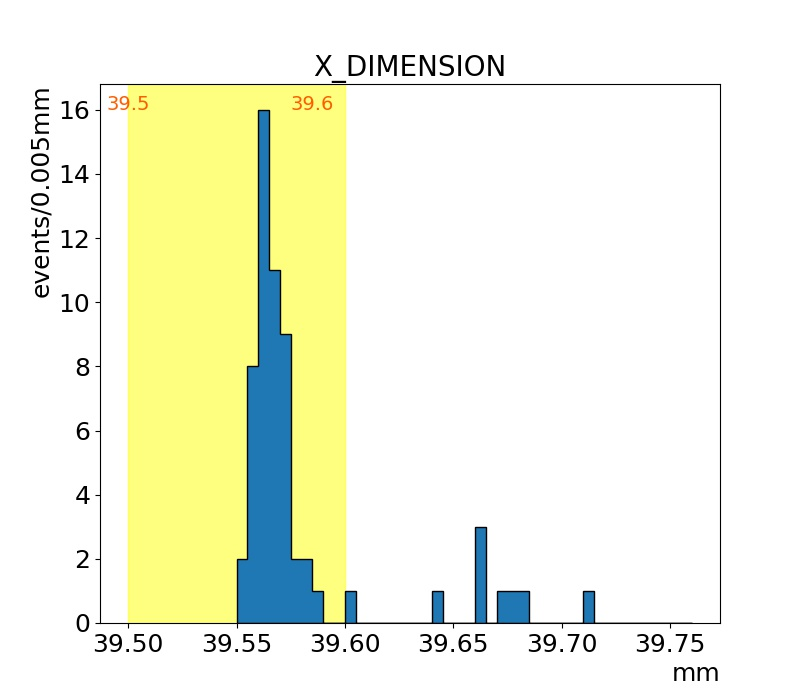
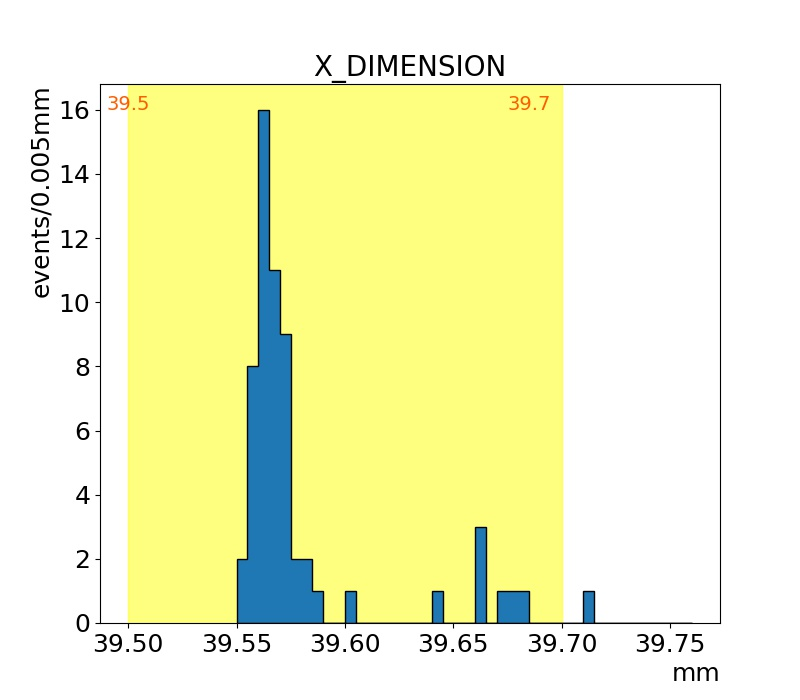
json pcb

Changed region(s): [[0.375, 0.12, 0.7188, 0.9]]

diff --git a/work/macro/validateSquare.py b/work/macro/validateSquare.py
@@ -1,0 +1,285 @@
+#!/usr/bin/env python3
+import os
+import pickle
+import tkinter as tk
+from tkinter import ttk
+from PIL import ImageGrab
+import numpy as np
+import pandas as pd
+import pmm
+import re
+import time
+import argparse
+import matplotlib.pyplot as plt
+    
+def hist(df, name, arg, AF):
+    # define histgram name
+    histname = name + '_' + arg
+
+    binrange = 0.01
+
+    # define matplotlib figure
+    fig = plt.figure(figsize=(8,7))
+    ax = fig.add_subplot(1,1,1)
+
+    # paint required area
+    #ax.axvspan(require[0], require[1], color='yellow', alpha=0.5)
+      
+    # fill data
+    bins = np.arange(np.nanmin(df[histname].to_list()),np.nanmax(df[histname].to_list()), binrange)
+    n = ax.hist(df[histname], bins=bins, alpha=1, histtype="stepfilled",edgecolor='black')
+
+    # show text of required area
+    #ax.text(require[0]-2*binrange, np.amax(n[0]), f'{require[0]}',
+     #       color='#ff5d00',size=14)
+    #ax.text(require[1]-5*binrange, np.amax(n[0]), f'{require[1]}',
+     #       color='#ff5d00',size=14)
+
+    # set hist style
+    plt.tick_params(labelsize=18)
+    ax.set_title(f'{AF} {name}_{arg}',fontsize=20)
+    ax.set_xlabel('mm',fontsize=18,loc='right') 
+    ax.set_ylabel(f'events/{binrange}mm',fontsize=18,loc='top')
+
+    plt.savefig(f'resultsHist/validateSQ/{AF}_{histname}_hist.jpg')  #save as jpeg
+
+    plt.show()
+
+class MainWindow(ttk.Frame):
+    def __init__(self, root):
+        super().__init__(root)
+        self.root = root
+        self.pack(side=tk.TOP, fill=tk.BOTH, expand=True)
+        
+    def buildGui(self,exdf):
+        def drawLine(self,x0,y0,r1,r2,color):
+            x1 = x0/2 + r1[0]*15
+            x2 = x0/2 + r2[0]*15
+            y1 = y0/2 - r1[1]*15
+            y2 = y0/2 - r2[1]*15
+            canvas.create_line(x1,y1,x2,y2, width=2, fill=color)
+        def drawLineX(self,x0,y0,val,w,color):
+            line = x0/2 + val*15
+            canvas.create_line(line, y0/2+w, line, y0/2-w, width=2, fill=color)
+        def drawLineY(self,x0,y0,val,w,color):
+            line = y0/2 - val*15
+            canvas.create_line(x0/2-w, line, x0/2+w, line, width=2, fill=color)
+        def drawOval(self,x0,y0,valx,valy,r,color):
+            x=x0/2+valx*15
+            y=y0/2-valy*15
+            canvas.create_oval(x-r,y-r,x+r,y+r, fill=color)
+        def drawSquare(self,p,x0,y0,valx,valy,dx,dy,color):
+            x=x0/2+valx*15
+            y=y0/2-valy*15
+        
+        x0, y0 = 900, 900
+        canvas = tk.Canvas(self, width=x0, height=y0,bg='white',bd=10,relief='flat')
+        canvas.pack(side=tk.TOP, fill=tk.BOTH, expand=True)
+        canvas.create_line(x0/2, 20, x0/2, y0,width=2,arrow="first")
+        canvas.create_line(0, y0/2, x0-20, y0/2,width=2,arrow="last")
+
+        taglist = ['FmarkTL', 'FmarkTR', 'FmarkBL', 'FmarkBR']
+        TL = coordinate(exdf, 'FmarkTL')
+        TR = coordinate(exdf, 'FmarkTR')
+        BL = coordinate(exdf, 'FmarkBL')
+        BR = coordinate(exdf, 'FmarkBR')
+        
+        # calculate distances 
+        TLTR = calculateDistance(exdf, 'FmarkTL','FmarkTR')
+        TRBR = calculateDistance(exdf, 'FmarkTR','FmarkBR')
+        BLBR = calculateDistance(exdf, 'FmarkBL','FmarkBR')
+        TLBL = calculateDistance(exdf, 'FmarkTL','FmarkBL')
+        # calculate angles
+        angleBL = calculateAngle(exdf, 'FmarkTL','FmarkBL','FmarkBR')
+        angleTR = calculateAngle(exdf, 'FmarkTL','FmarkTR','FmarkBR')
+
+        # draw fmarks
+        drawOval(self,x0,y0,TL[0],TL[1],5,"#ff7f00")
+        drawOval(self,x0,y0,TR[0],TR[1],5,"#ff7f00")
+        drawOval(self,x0,y0,BL[0],BL[1],5,"#ff7f00")
+        drawOval(self,x0,y0,BR[0],BR[1],5,"#ff7f00")
+        # draw line connectiong Fmarks
+        drawLine(self,x0,y0,TL,TR,"#00a0a0")  
+        drawLine(self,x0,y0,TL,BL,"#00a0a0")
+        drawLine(self,x0,y0,TR,BR,"#00a0a0")
+        drawLine(self,x0,y0,BL,BR,"#00a0a0")
+        
+        # write distance and angle on canvas
+        canvas.create_text(350,140,text=f'{TLTR:.4g}',fill="#00a0a0",
+                           font=("",16))  # TL to TR
+        canvas.create_text(350,750,text=f'{BLBR:.4g}',fill="#00a0a0",
+                           font=("",16))  # BL to BR
+        canvas.create_text(150,350,text=f'{TLBL:.4g}',angle=90,
+                           fill="#00a0a0",font=("",16))  # TL to BL
+        canvas.create_text(750,350,text=f'{TRBR:.4g}',angle=90,
+                           fill="#00a0a0",font=("",16))  # TR to BR
+        canvas.create_text(220,710,text=f'{angleBL:.4g}',font=("",16))  # TL-BL-BR
+        canvas.create_text(680,180,text=f'{angleTR:.4g}',font=("",16))  # TL-TR-BR    
+             
+def coordinate(exdf,tagname):
+    query = exdf.query(f'tags == "{tagname}"').index[0]
+    x = exdf.loc[query,'detect_x']
+    y = exdf.loc[query,'detect_y']
+    return x,y
+
+def calculateDistance(exdf, name1, name2):
+    r1 = coordinate(exdf, name1)
+    r2 = coordinate(exdf, name2)
+    dx = r1[0]-r2[0]
+    dy = r1[1]-r2[1]
+    distance = np.sqrt(dx**2+dy**2)
+    return distance
+
+def calculateAngle(exdf, name1, name2, name3):
+    r1 = np.array(coordinate(exdf, name1))
+    r2 = np.array(coordinate(exdf, name2))
+    r3 = np.array(coordinate(exdf, name3))
+    r12 = r2 - r1
+    r23 = r3 - r2
+    costheta = np.dot(r12,r23)/(np.linalg.norm(r12)*np.linalg.norm(r23))
+    radian= np.arccos(np.clip(costheta, -1.0, 1.0))
+    angle = np.degrees(radian)
+    return angle
+
+def badSN(df):
+    rows = ['Qty', 'min', 'max', 'mean', 'std', 'requirement min', 'requirement max']
+    summary = pd.DataFrame(index=rows)
+    ngSN = pd.DataFrame(columns=['serial_num'])
+    
+    names = ['range_T','range_B','range_L','range_R','angle_BL','angle_TR']
+    for name in names:
+        std = np.nanstd(df[name].to_list())    # get data value std deviation
+        mean = np.nanmean(df[name].to_list())  # get data value mean
+        minimum = np.nanmin(df[name].to_list())  # get data value min
+        maximum = np.nanmax(df[name].to_list())  # get data value max
+        quantity = df[name].count()
+        if 'angle' in name:
+            reqmin = 89.9
+            reqmax = 90.1
+        if 'range' in name:
+            reqmin = mean - 2*std
+            reqmax = mean + 2*std
+            
+        values = pd.DataFrame([quantity, minimum, maximum, mean, std, reqmin, reqmax],index=rows,columns=[name])
+        summary = pd.concat([summary, values],axis=1)
+    
+        filterd_min = df[df[name] < reqmin]
+        filterd_max = df[df[name] > reqmax]
+        ex = pd.concat([filterd_min[['serial_num', name]],
+                        filterd_max[['serial_num', name]]])
+        ngSN = pd.merge(ngSN, ex, on='serial_num',how='outer')
+    return summary, ngSN
+ 
+def valSquare(df, AF):
+    listT,listB,listL,listR = [],[],[],[]
+    listBL,listTR = [],[]
+    listSN = []
+    # group analysis data by tags
+    grouptag_ana = df.groupby(['serial_number'])
+    snList = df['serial_number'].unique()    
+    for sn in snList:
+        exdf = grouptag_ana.get_group((sn))
+        listSN.append(sn)
+        listT.append(calculateDistance(exdf, f'{AF}TL',f'{AF}TR'))
+        listR.append(calculateDistance(exdf, f'{AF}TR',f'{AF}BR'))
+        listB.append(calculateDistance(exdf, f'{AF}BL',f'{AF}BR'))
+        listL.append(calculateDistance(exdf, f'{AF}TL',f'{AF}BL'))
+        listBL.append(calculateAngle(exdf, f'{AF}TL',f'{AF}BL',f'{AF}BR'))
+        listTR.append(calculateAngle(exdf, f'{AF}TL',f'{AF}TR',f'{AF}BR'))
+    df = pd.DataFrame()
+    df['serial_num']=listSN
+    df['range_T']=listT
+    df['range_B']=listB
+    df['range_L']=listL
+    df['range_R']=listR
+    df['angle_BL']=listBL
+    df['angle_TR']=listTR
+
+    badsnDF = badSN(df)
+    
+    badsnDF[0].to_csv(f'data/validateSQ/{AF}_RangeAndAngle_summary.csv')
+    badsnDF[1].to_csv(f'data/validateSQ/{AF}_RangeAndAngle_badSN.csv')
+    df.to_csv(f'data/validateSQ/{AF}_RangeAndAngle.csv')
+    
+    return df
+
+def saveCanvas():
+    x = root.winfo_x() + canvas.winfo_x()
+    y = root.winfo_y() + canvas.winfo_y()
+    x1 = x + canvas.winfo_width()
+    y1 = y + canvas.winfo_height()
+    image = ImageGrab.grab(bbox=(x,y,x1,y1))
+
+    image.save("canvas/canvas.png")
+    print('save as canvas.png')
+    
+def createWindow(df):
+    root = tk.Tk()
+    window = MainWindow(root)
+    # group analysis data by tags
+    grouptag_ana = df.groupby(['serial_number'])
+    # get serial number list
+    snList = df['serial_number'].unique()
+    
+    for sn in snList:
+        root.geometry('900x900')
+        root.title(f'analyze fmark validation {sn}')
+        extract_ana = grouptag_ana.get_group((sn))
+        canvas = window.buildGui(extract_ana)
+        #saveCanvas()
+
+    return window
+
+def run(df, args):
+    # calculate range and angle
+    # and save csv
+    if args.AF == 'F':
+        resultDF = valSquare(analysisData,'Fmark')
+        # make hist
+        if args.ranges:
+            hist(resultDF, 'range', args.ranges, 'Fmark')
+        elif args.angles:
+            hist(resultDF, 'angle', args.angles, 'Fmark')
+        else:
+            print('no command. -h or --help ')
+
+    if args.AF == 'A':
+        resultDF = valSquare(analysisData,'AsicFmark')
+        # make hist
+        if args.ranges:
+            hist(resultDF, 'range', args.ranges, 'AsicFmark')
+        elif args.angles:
+            hist(resultDF, 'angle', args.angles, 'AsicFmark')
+        else:
+            print('no command. -h or --help ')
+
+    # draw canvas
+    # but it can't save 
+    #window = createWindow(analysisData)
+    #window.root.mainloop()
+    
+if __name__ == '__main__':
+    t1 = time.time()  # get initial timestamp
+    
+    # make parser
+    parser = argparse.ArgumentParser()
+
+    # add argument
+    parser.add_argument('AF', help='Asic or Flex?')
+    parser.add_argument('-r','--ranges', help='range', choices=['T','B','L','R'])
+    parser.add_argument('-a', '--angles', help='angle', choices=['TR','BL'])
+    
+    args = parser.parse_args()  # analyze arguments
+        
+    #open data as dataframe
+    with open(f'data/MODULE_ScanData.pkl', 'rb') as fin:
+        scanData = pickle.load(fin)
+    with open(f'data/MODULE_AnalysisData.pkl', 'rb') as fin:
+        analysisData = pickle.load(fin)
+
+    # main
+    run(analysisData, args)
+
+    t2 = time.time()  # get final timestamp
+    elapsed_time = t2-t1  # calculate run time
+    print(f'run time : {elapsed_time}')  

diff --git a/work/macro/jsonAnalysis_pcb.py b/work/macro/jsonAnalysis_pcb.py
@@ -10,8 +10,8 @@ from myModules import data_pcb
 if __name__ == '__main__':
     t1 = time.time()  # get initial timestamp
     resultsKeyList = [
-        ['X_DIMENSION', [39.5, 39.6], 0.005, 'mm'],
-        ['Y_DIMENSION', [40.2, 40.4], 0.005, 'mm'],
+        ['X_DIMENSION', [39.5, 39.7], 0.005, 'mm'],
+        ['Y_DIMENSION', [40.3, 40.5], 0.005, 'mm'],
         ['AVERAGE_THICKNESS_FECHIP_PICKUP_AREAS',[0.15, 0.25], 0.001, 'mm'],
         ['AVERAGE_THICKNESS_POWER_CONNECTOR', [1.521, 1.761], 0.002, 'mm'],
         ['HV_CAPACITOR_THICKNESS', [1.701, 2.111], 0.004, 'mm'],
@@ -38,8 +38,8 @@ if __name__ == '__main__':
     ngSNDF.to_pickle("analysisJson/pcb_json_ngSNs.pkl")
     ngSNDF.to_csv("analysisJson/pcb_json_ngSNs.csv")
     print('analysis data save as analysisJson/pcb_json')
-    #print(ngSNDF)
-
+    print(analyDF)
+    print(ngSNDF)
     t2 = time.time()  # get final timestamp
     elapsed_time = t2-t1  # calculate run time
     print(f'run time : {elapsed_time}')  

diff --git a/work/macro/ReadJson_PCB.py b/work/macro/ReadJson_PCB.py
@@ -98,9 +98,9 @@ def hist(dnames, key, require, binrange, unit):
 
 def run(dnames, args):
     if args.X:
-        hist(dnames, 'X_DIMENSION', [39.5, 39.6], 0.005, 'mm')
+        hist(dnames, 'X_DIMENSION', [39.5, 39.7], 0.005, 'mm')
     elif args.Y:
-        hist(dnames, 'Y_DIMENSION', [40.2, 40.4], 0.005, 'mm')
+        hist(dnames, 'Y_DIMENSION', [40.3, 40.5], 0.005, 'mm')
     elif args.thick:
         hist(dnames, 'AVERAGE_THICKNESS_FECHIP_PICKUP_AREAS',
              [0.2, 0.25], 0.001, 'mm')
@@ -120,6 +120,7 @@ if __name__ == '__main__':
     t1 = time.time()  # get initial timestamp
 
     # make parser
+
     parser = argparse.ArgumentParser()
 
     # add argument
